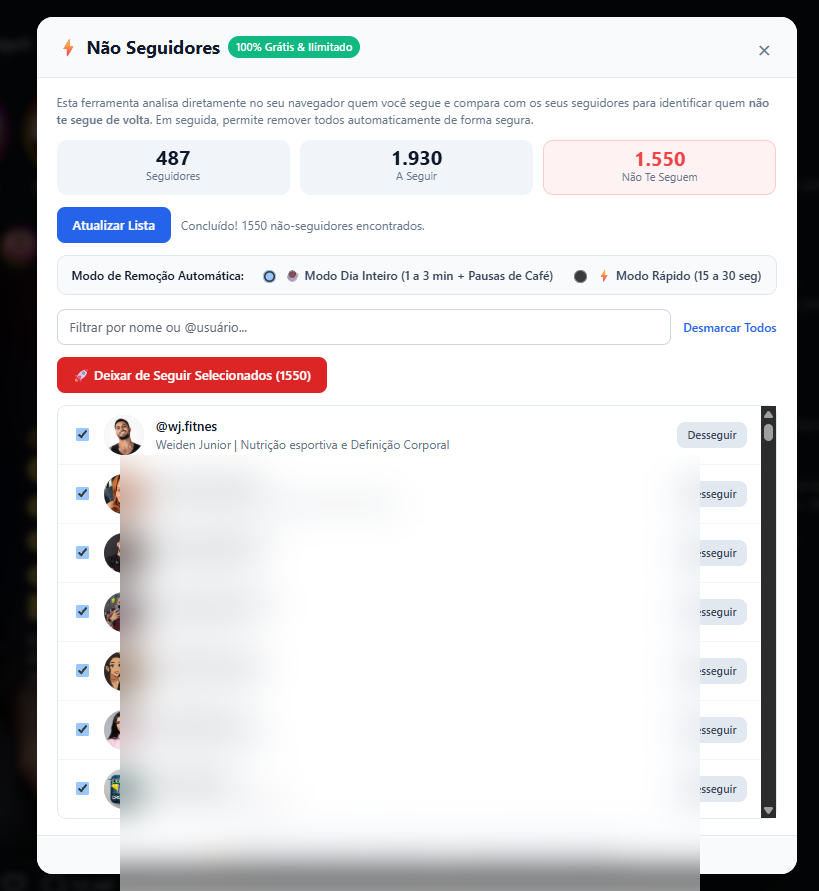
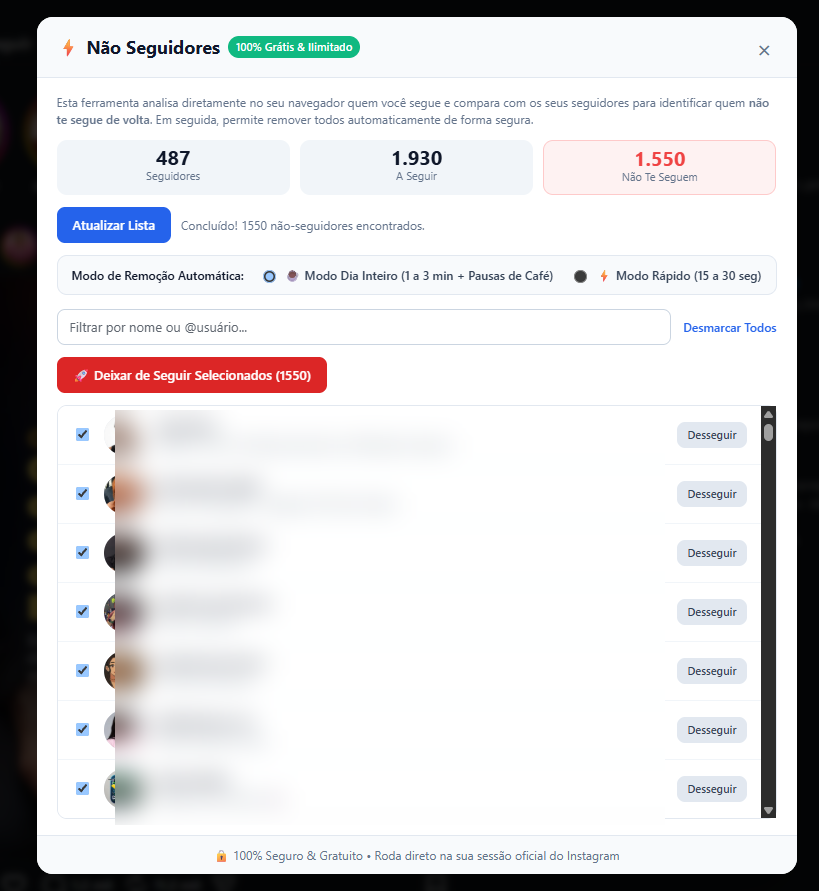
privacy: adjust blur with exact bounding box keeping Desseguir buttons and checkboxes crisp while anonymizing all user handles and faces

Changed region(s): [[0.1221, 0.9394, 0.8547, 1.0], [0.1221, 0.4545, 0.5495, 0.9091]]

diff --git a/README.md b/README.md
@@ -10,10 +10,10 @@ Identifique instantaneamente quem você segue e não te segue de volta no Instag
 
 <div align="center">
   <h3>1. Seleção e Análise dos Não-Seguidores</h3>
-  <img src="screenshots/list_view.png" alt="Lista de Não-Seguidores" width="650">
+  <img src="screenshots/list_view.png?v=3" alt="Lista de Não-Seguidores" width="650">
   <br><br>
   <h3>2. Execução com Barra de Progresso e Proteção Anti-Bloqueio</h3>
-  <img src="screenshots/preview.png" alt="Progresso da Remoção" width="650">
+  <img src="screenshots/preview.png?v=3" alt="Progresso da Remoção" width="650">
 </div>
 
 ---
